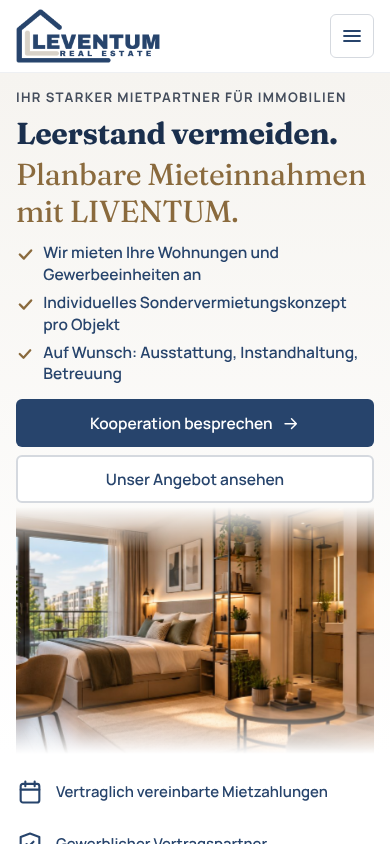
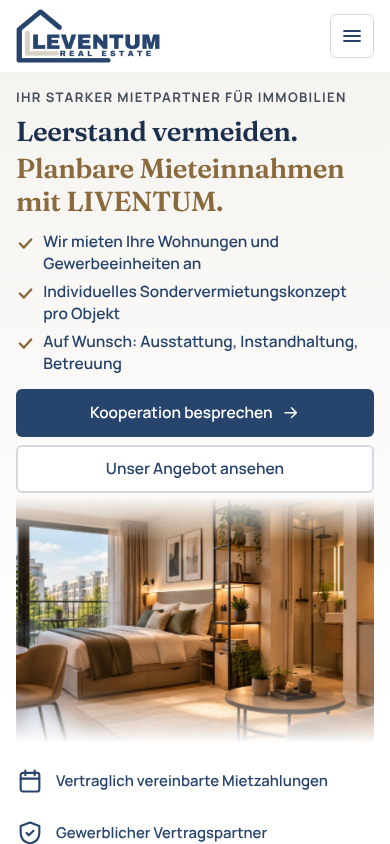
Hero-Überschrift: einheitlicher Schriftschnitt in beiden Zeilen
Claude-Session: https://claude.ai/code/session_01KEcscF8ABiEHPf9rzLQ9PG

Changed region(s): [[0.0308, 0.1232, 0.9846, 1.0], [0.9231, 0.7085, 0.9538, 0.7701]]

diff --git a/css/sections.css b/css/sections.css
@@ -16,10 +16,10 @@
 /* Hero */
 .hero { background: linear-gradient(180deg, var(--beige-100), #fff); padding: var(--space-5) 0 var(--space-5); }
 .hero-grid { display: grid; grid-template-columns: 1.05fr 1fr; gap: var(--space-5); align-items: center; }
-.hero h1 { font-weight: 700; color: var(--navy-900); }
+.hero h1 { font-weight: 600; color: var(--navy-900); }
 .hero h1 .ln { display: block; overflow: hidden; padding-bottom: 0.14em; margin-bottom: -0.14em; }
 .hero h1 .ln > span { display: block; }
-.hero .accent { display: block; margin-top: 0.15em; color: var(--bronze); font-weight: 400; }
+.hero .accent { display: block; margin-top: 0.15em; color: var(--bronze); font-weight: inherit; }
 .hero-points { display: grid; gap: 0.7rem; margin-top: var(--space-3); max-width: 44ch; }
 .hero-points li { position: relative; padding-left: 1.9rem; font-weight: 600; font-size: 1.15rem; color: var(--navy-800); line-height: 1.4; }
 .hero-points li::before { content: ""; position: absolute; left: 0; top: 0.2em; width: 1.2em; height: 1.2em; background: var(--bronze);
@@ -137,7 +137,7 @@
   :root { --header-h: 72px; }
   .hero { padding: 14px 0 0; }
   .hero .eyebrow { font-size: 0.82rem; margin-bottom: 0.45rem; }
-  .hero h1 { font-size: 1.9rem; }
+  .hero h1 { font-size: 1.72rem; }
   .hero-points { gap: 0.4rem; margin-top: 0.8rem; }
   .hero-points li { font-size: 0.97rem; padding-left: 1.7rem; }
   .hero .btn-row { margin-top: 0.9rem; gap: 0.5rem; }
